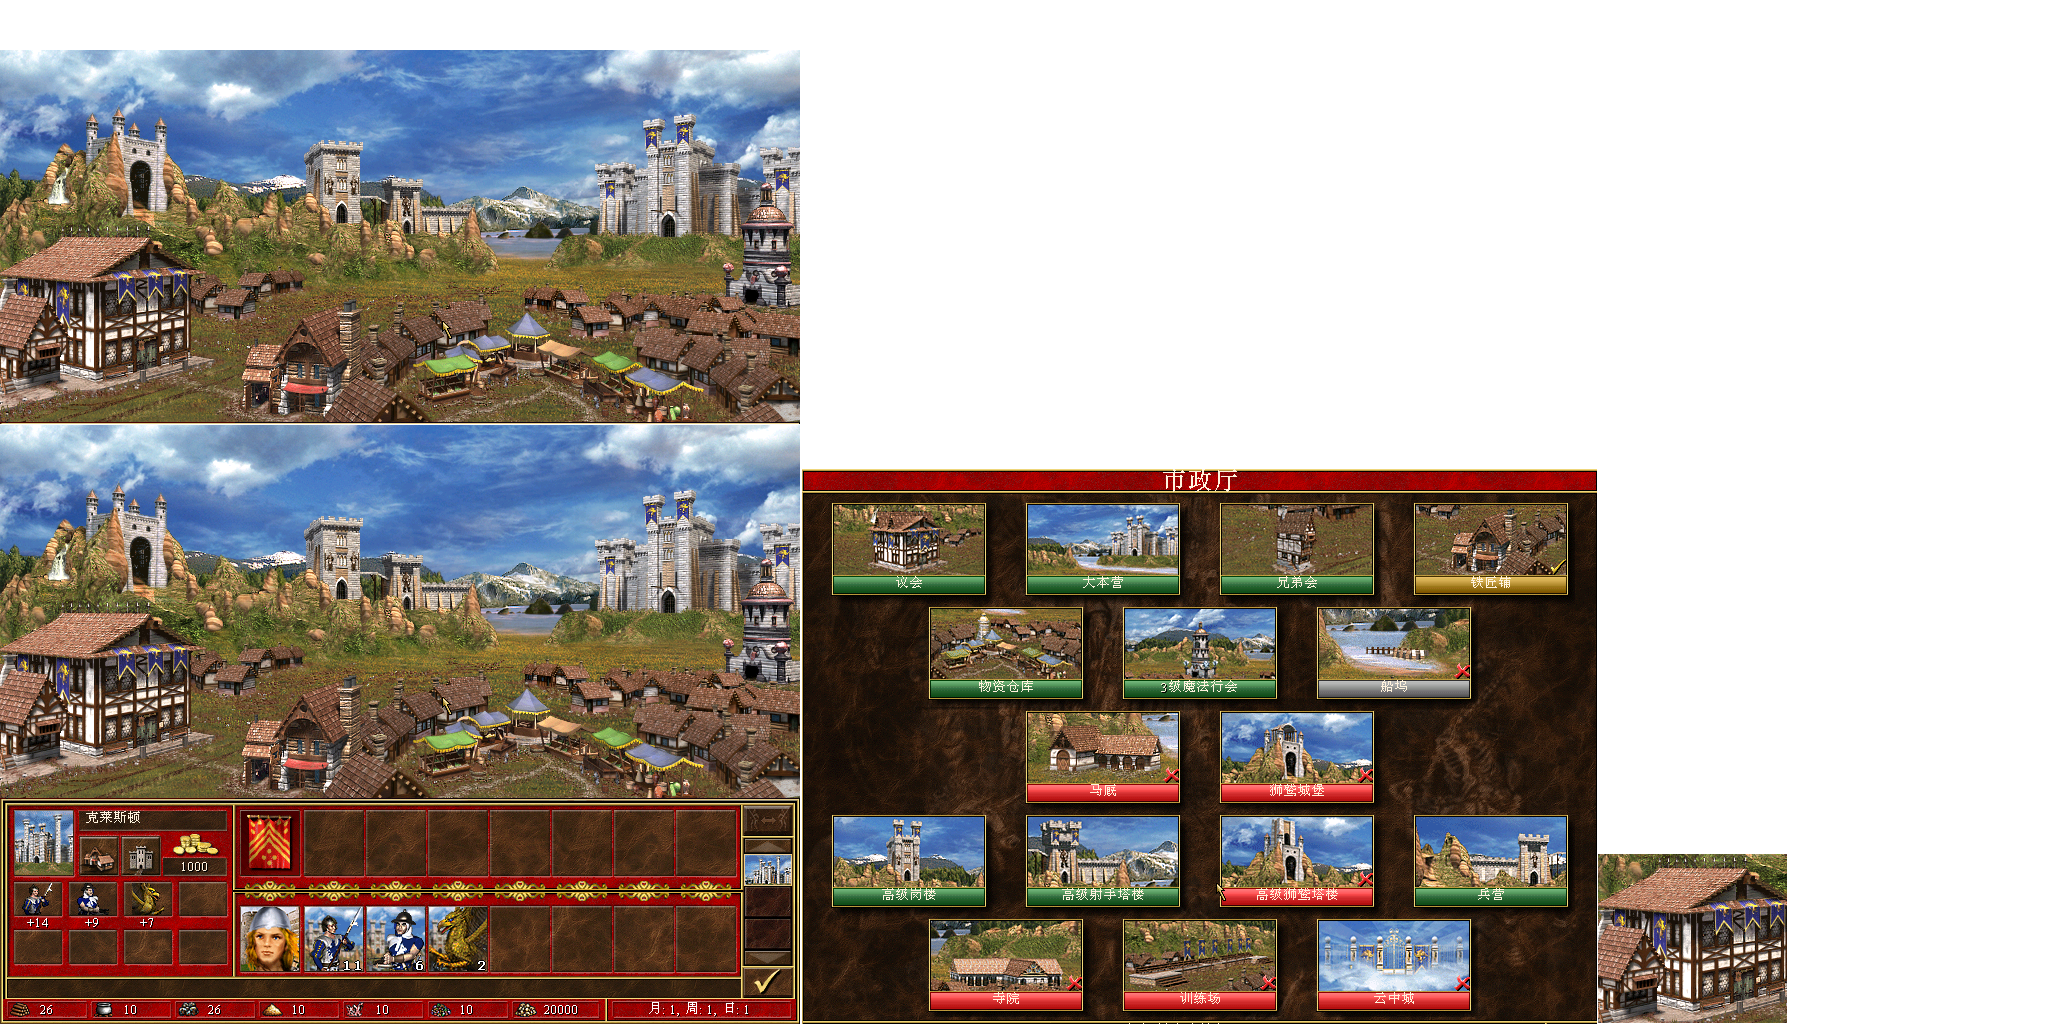
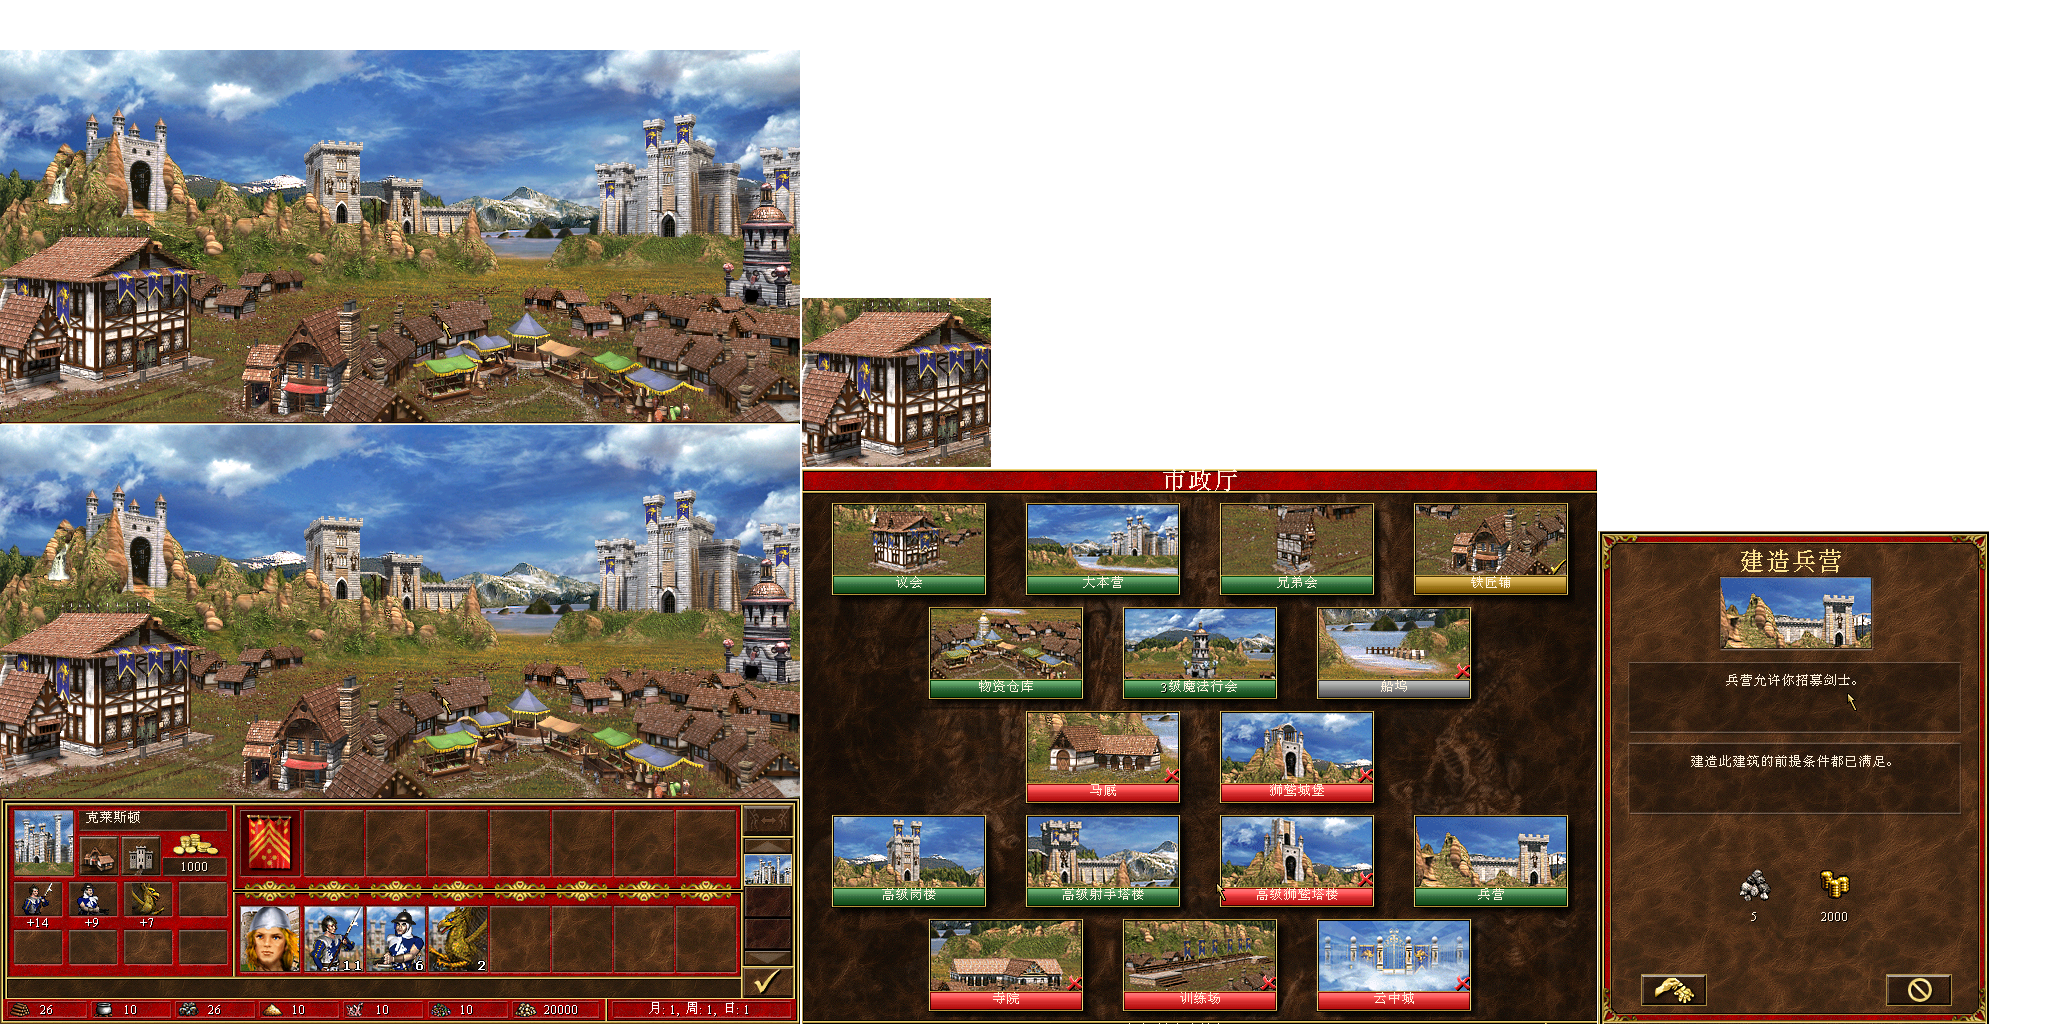
7.17晚上

Changed region(s): [[0.7812, 0.5, 0.9688, 1.0], [0.375, 0.2812, 0.5, 0.4688]]

diff --git a/demo/Assets/myscripts/buildSprite.cs b/demo/Assets/myscripts/buildSprite.cs
@@ -1,0 +1,50 @@
+using UnityEngine;
+using System.Collections;
+
+public class buildSprite : MonoBehaviour {
+	//gameObject区别用法
+	public GameObject goBuildIF;
+	GameObject goCancel;
+
+	bool bClickFlag = false;
+	// Use this for initialization
+	void Start () {
+		GameObject goGriffin = GameObject.Find ("griffinSprite");
+		UIEventListener.Get (goGriffin).onClick = BuildIFClickEvent;
+
+		GameObject goCamp = GameObject.Find ("campSprite");
+		UIEventListener.Get (goCamp).onClick = BuildIFClickEvent;
+
+//		GameObject goCancel = GameObject.Find ("cancelSprite");
+//		UIEventListener.Get (goCancel).onClick = BuildIFClickEvent;
+	}
+	
+	// Update is called once per frame
+	void Update () {
+	
+	}
+
+	void CancelClickEvent(GameObject goButton)
+	{
+		goBuildIF.SetActive (false);
+	}
+
+	void BuildIFClickEvent(GameObject goButton)
+	{
+//		Debug.Log ("game name" + goButton.name);
+//		if (bClickFlag == false)
+//		{
+//			goBuildIF.SetActive (true);
+//			bClickFlag = true;
+//		}
+//		else 
+//		{
+//			GameObject goCancel = GameObject.Find ("cancelSprite");
+//			goCancel.SetActive (false);
+//		}
+
+		goBuildIF.SetActive (true);
+		goCancel = GameObject.Find ("cancelSprite");
+		UIEventListener.Get (goCancel).onClick = CancelClickEvent;
+	}
+}

diff --git a/demo/Assets/myscripts/mbgPanel.cs b/demo/Assets/myscripts/mbgPanel.cs
@@ -104,4 +104,7 @@ public class mbgPanel : MonoBehaviour {
 			uspCamp.spriteName = "camp";
 		}
 	}
+
+	//建筑建造
+
 }
